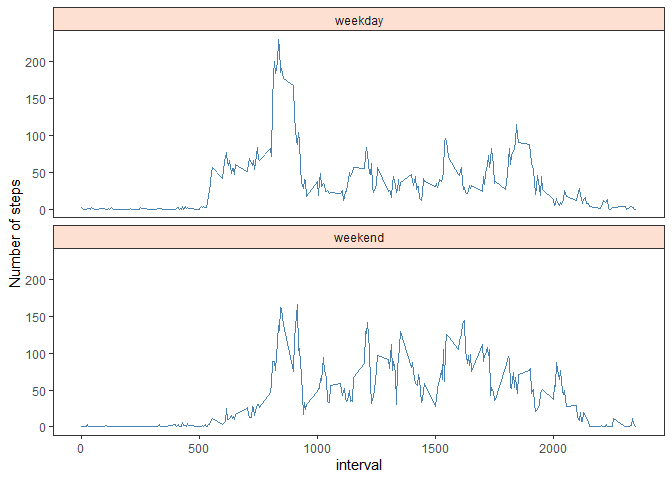
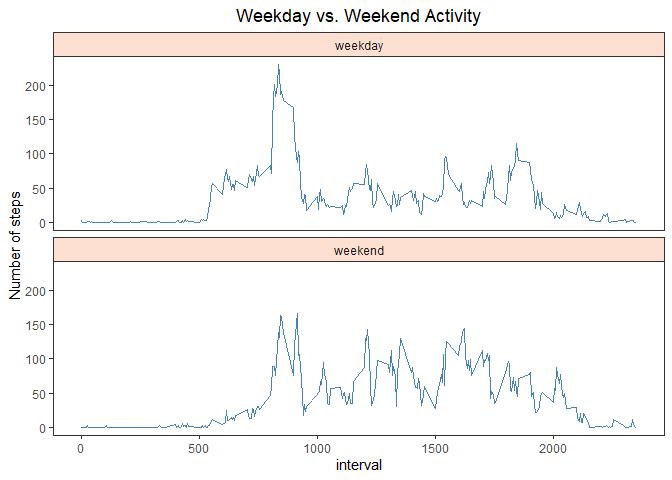
Final Commit with all issues cleaned up and necessary analysis added to rmd.

diff --git a/PA1_template.html b/PA1_template.html
@@ -416,6 +416,8 @@ summary {
 
 <div id="libraries-data-loading-pre-processing." class="section level2">
 <h2>Libraries, Data Loading &amp; pre-processing.</h2>
+<div id="libraries-used-as-per-code-block" class="section level4">
+<h4>Libraries used as per code block:</h4>
 <pre class="r"><code>library(dplyr)
 library(data.table)
 library(timeDate)
@@ -429,8 +431,13 @@ if(!&quot;data&quot; %in% ls()) {
 }
 mutate(data, date=as.Date(date,format=&#39;%Y-%m-%d&#39;))</code></pre>
 </div>
+<div id="date-data-converted-from-character-to-date-format." class="section level4">
+<h4>Date data converted from character to date format.</h4>
+</div>
+</div>
 <div id="what-is-mean-total-number-of-steps-taken-per-day" class="section level2">
 <h2>What is mean total number of steps taken per day?</h2>
+<p><strong>NB:</strong> NA values are ignored.</p>
 <pre class="r"><code>### Set up grouped by date data table
 step_tot &lt;- data %&gt;%
   group_by(date) %&gt;%
@@ -448,9 +455,9 @@ median_tot_steps &lt;- median(step_tot$tot_steps, na.rm=T)
 abline(v=median_tot_steps, col=&quot;red&quot;, lty=1, lwd=2)
 text(x=median_tot_steps, 39, paste(&quot;median&quot;, &quot;\n&quot;, median_tot_steps), cex=.8, pos=4, col =&#39;red&#39;)</code></pre>
[1 lines of base64/hex data omitted]
-<pre class="r"><code>### Create png file
-dev.copy(png,file = &quot;./figure/total_daily_steps.png&quot;, width = 480, height = 480, units = &quot;px&quot;)
-dev.off()</code></pre>
+<div id="mean-median-total-number-of-steps-taken-per-day-shown-in-figure." class="section level4">
+<h4>Mean &amp; Median total number of steps taken per day shown in figure.</h4>
+</div>
 </div>
 <div id="what-is-the-average-daily-activity-pattern" class="section level2">
 <h2>What is the average daily activity pattern?</h2>
@@ -469,17 +476,18 @@ max_int &lt;- step_avg$interval[which.max(step_avg$avg_steps)]
 points(max_int, max_avg_steps,pch=19)
 text(max_int, max_avg_steps, paste(&#39;Max.avg.steps at interval &#39;,max_int,&#39;\n =&#39;,max_avg_steps),cex=0.8,col=&#39;blue&#39;,pos=4)</code></pre>
[1 lines of base64/hex data omitted]
-<pre class="r"><code>#### Create png file
-dev.copy(png,file = &quot;./figure/avg_steps_interval.png&quot;, width = 480, height = 480, units = &quot;px&quot;)
-dev.off()</code></pre>
+<div id="interval-835-on-average-across-all-the-days-in-the-dataset-contains-the-maximum-number-of-steps-206-as-shown-in-figure." class="section level4">
+<h4>Interval 835, on average across all the days in the dataset, contains the maximum number of steps = 206 as shown in figure.</h4>
+</div>
 </div>
 <div id="imputing-missing-values" class="section level2">
 <h2>Imputing missing values</h2>
 <pre class="r"><code>### check for missing (NA)
 missing &lt;- data %&gt;% count(missing = is.na(steps))
-print (paste(&quot;Missing Value Count = &quot;, missing$n[which(missing$missing==TRUE)]))
-
-### Replace NA with mean value for interval
+print (paste(&quot;Missing Value Count = &quot;, missing$n[which(missing$missing==TRUE)]))</code></pre>
+<pre><code>## [1] &quot;Missing Value Count =  2304&quot;</code></pre>
+<p>Missing values are replaced with the daily mean of the 5 min. intervals.</p>
+<pre class="r"><code>### Replace NA with mean value for interval
 
 data_fill &lt;- data
 step_avg &lt;- as.data.table(step_avg)
@@ -503,9 +511,12 @@ median_tot_steps_fill &lt;- median(step_tot_fill$tot_steps, na.rm=T)
 abline(v=median_tot_steps_fill, col=&quot;red&quot;, lty=1, lwd=2)
 text(x=median_tot_steps_fill, 39, paste(&quot;median&quot;, &quot;\n&quot;, median_tot_steps_fill), cex=.8, pos=4, col =&#39;red&#39;)</code></pre>
[1 lines of base64/hex data omitted]
-<pre class="r"><code># Create png file
-dev.copy(png,file = &quot;./figure/total_daily_steps_fill.png&quot;, width = 480, height = 480, units = &quot;px&quot;)
-dev.off()</code></pre>
+<div id="the-mean-and-median-values-from-the-missing-value-adjusted-dataset-differs-from-the-estimates-from-the-first-part-of-the-assignment." class="section level4">
+<h4>The <strong>mean</strong> and <strong>median</strong> values from the missing value adjusted dataset differs from the estimates from the first part of the assignment.</h4>
+</div>
+<div id="the-impact-of-imputing-missing-data-seems-to-adjust-the-distribution-of-steps-more-towards-a-normal-distribution-bringing-the-mean-and-median-much-closer-together." class="section level4">
+<h4>The impact of imputing missing data seems to adjust the distribution of steps more towards a normal distribution bringing the mean and median much closer together.</h4>
+</div>
 </div>
 <div id="are-there-differences-in-activity-patterns-between-weekdays-and-weekends" class="section level2">
 <h2>Are there differences in activity patterns between weekdays and weekends?</h2>
@@ -527,15 +538,25 @@ step_avg_week$weekday[step_avg_week$weekday==FALSE] &lt;- &quot;weekend&quot;
 chart &lt;- ggplot(step_avg_week, aes(x=interval, y= avg_steps))
 chart &lt;- chart + geom_line(col=&#39;steelblue&#39;)
 chart &lt;- chart + facet_wrap(~ weekday, ncol = 1)
-chart &lt;- chart + ylab(&quot;Number of steps&quot;)
+chart &lt;- chart + labs(title = &quot;Weekday vs. Weekend Activity&quot;, y=&quot;Number of steps&quot;)
 chart &lt;- chart + theme_bw()
+chart &lt;- chart + theme(plot.title = element_text(hjust = 0.5))
 chart &lt;- chart + theme(panel.grid.major=element_blank(), panel.grid.minor=element_blank(),
                        strip.background =element_rect(fill=brewer.pal(n = 3, name = &quot;Reds&quot;)))
 print(chart)</code></pre>
[1 lines of base64/hex data omitted]
-<pre class="r"><code># Create png file
-dev.copy(png,file = &quot;./figure/average_steps_weekday.png&quot;, width = 480, height = 480, units = &quot;px&quot;)
-dev.off()</code></pre>
[1 lines of base64/hex data omitted]
+<div id="using-the-filled-in-missing-values-dataset-the-weekday-vs.-weekend-activty-comparison-above-shows-" class="section level4">
+<h4>Using the filled-in missing values dataset, the Weekday vs. Weekend Activty comparison above shows:-</h4>
+</div>
+<div id="a-similar-pattern-of-activity-starting-slightly-later-on-weekends." class="section level4">
+<h4>* a similar pattern of activity starting slightly later on weekends.</h4>
+</div>
+<div id="a-higher-peak-step-count-around-the-800-interval-on-weekdays." class="section level4">
+<h4>* a higher peak step count around the 800 interval on weekdays.</h4>
+</div>
+<div id="slightly-higher-activity-between-intervals-1000-to-2000-on-weekends." class="section level4">
+<h4>* slightly higher activity between intervals 1000 to 2000 on weekends.</h4>
+</div>
 </div>
 
 

diff --git a/PA1_template.md b/PA1_template.md
@@ -8,6 +8,8 @@ output:
 
 ## Libraries, Data Loading & pre-processing.
 
+#### Libraries used as per code block:
+
 ```r
 library(dplyr)
 library(data.table)
@@ -22,8 +24,10 @@ if(!"data" %in% ls()) {
 }
 mutate(data, date=as.Date(date,format='%Y-%m-%d'))
 ```
+#### Date data converted from character to date format.
 
 ## What is mean total number of steps taken per day?
+**NB:** NA values are ignored. 
 
 ```r
 ### Set up grouped by date data table
@@ -46,11 +50,7 @@ text(x=median_tot_steps, 39, paste("median", "\n", median_tot_steps), cex=.8, po
 
 ![](PA1_template_files/figure-html/totalsteps-1.png)<!-- -->
 
-```r
-### Create png file
-dev.copy(png,file = "./figure/total_daily_steps.png", width = 480, height = 480, units = "px")
-dev.off()
-```
+#### Mean & Median total number of steps taken per day shown in figure.
 
 ## What is the average daily activity pattern?
 
@@ -73,11 +73,7 @@ text(max_int, max_avg_steps, paste('Max.avg.steps at interval ',max_int,'\n =',m
 
 ![](PA1_template_files/figure-html/activity pattern-1.png)<!-- -->
 
-```r
-#### Create png file
-dev.copy(png,file = "./figure/avg_steps_interval.png", width = 480, height = 480, units = "px")
-dev.off()
-```
+#### Interval 835, on average across all the days in the dataset, contains the maximum number of steps = 206 as shown in figure.
 
 ## Imputing missing values
 
@@ -85,7 +81,16 @@ dev.off()
 ### check for missing (NA)
 missing <- data %>% count(missing = is.na(steps))
 print (paste("Missing Value Count = ", missing$n[which(missing$missing==TRUE)]))
+```
 
+```
+## [1] "Missing Value Count =  2304"
+```
+
+Missing values are replaced with the daily mean of the 5 min. intervals.  
+
+
+```r
 ### Replace NA with mean value for interval
 
 data_fill <- data
@@ -111,13 +116,10 @@ abline(v=median_tot_steps_fill, col="red", lty=1, lwd=2)
 text(x=median_tot_steps_fill, 39, paste("median", "\n", median_tot_steps_fill), cex=.8, pos=4, col ='red')
 ```
 
-![](PA1_template_files/figure-html/missing values-1.png)<!-- -->
+![](PA1_template_files/figure-html/missing values replaced-1.png)<!-- -->
 
-```r
-# Create png file
-dev.copy(png,file = "./figure/total_daily_steps_fill.png", width = 480, height = 480, units = "px")
-dev.off()
-```
+#### The **mean** and **median** values from the missing value adjusted dataset differs from the estimates from the first part of the assignment.  
+#### The impact of imputing missing data seems to adjust the distribution of steps more towards a normal distribution bringing the mean and median much closer together.  
 
 ## Are there differences in activity patterns between weekdays and weekends?
 
@@ -140,8 +142,9 @@ step_avg_week$weekday[step_avg_week$weekday==FALSE] <- "weekend"
 chart <- ggplot(step_avg_week, aes(x=interval, y= avg_steps))
 chart <- chart + geom_line(col='steelblue')
 chart <- chart + facet_wrap(~ weekday, ncol = 1)
-chart <- chart + ylab("Number of steps")
+chart <- chart + labs(title = "Weekday vs. Weekend Activity", y="Number of steps")
 chart <- chart + theme_bw()
+chart <- chart + theme(plot.title = element_text(hjust = 0.5))
 chart <- chart + theme(panel.grid.major=element_blank(), panel.grid.minor=element_blank(),
                        strip.background =element_rect(fill=brewer.pal(n = 3, name = "Reds")))
 print(chart)
@@ -149,8 +152,8 @@ print(chart)
 
 ![](PA1_template_files/figure-html/weekdays-1.png)<!-- -->
 
-```r
-# Create png file
-dev.copy(png,file = "./figure/average_steps_weekday.png", width = 480, height = 480, units = "px")
-dev.off()
-```
+#### Using the filled-in missing values dataset, the Weekday vs. Weekend Activty comparison above shows:-  
+#### * a similar pattern of activity starting slightly later on weekends.  
+#### * a higher peak step count around the 800 interval on weekdays.  
+#### * slightly higher activity between intervals 1000 to 2000 on weekends.  
+ 
